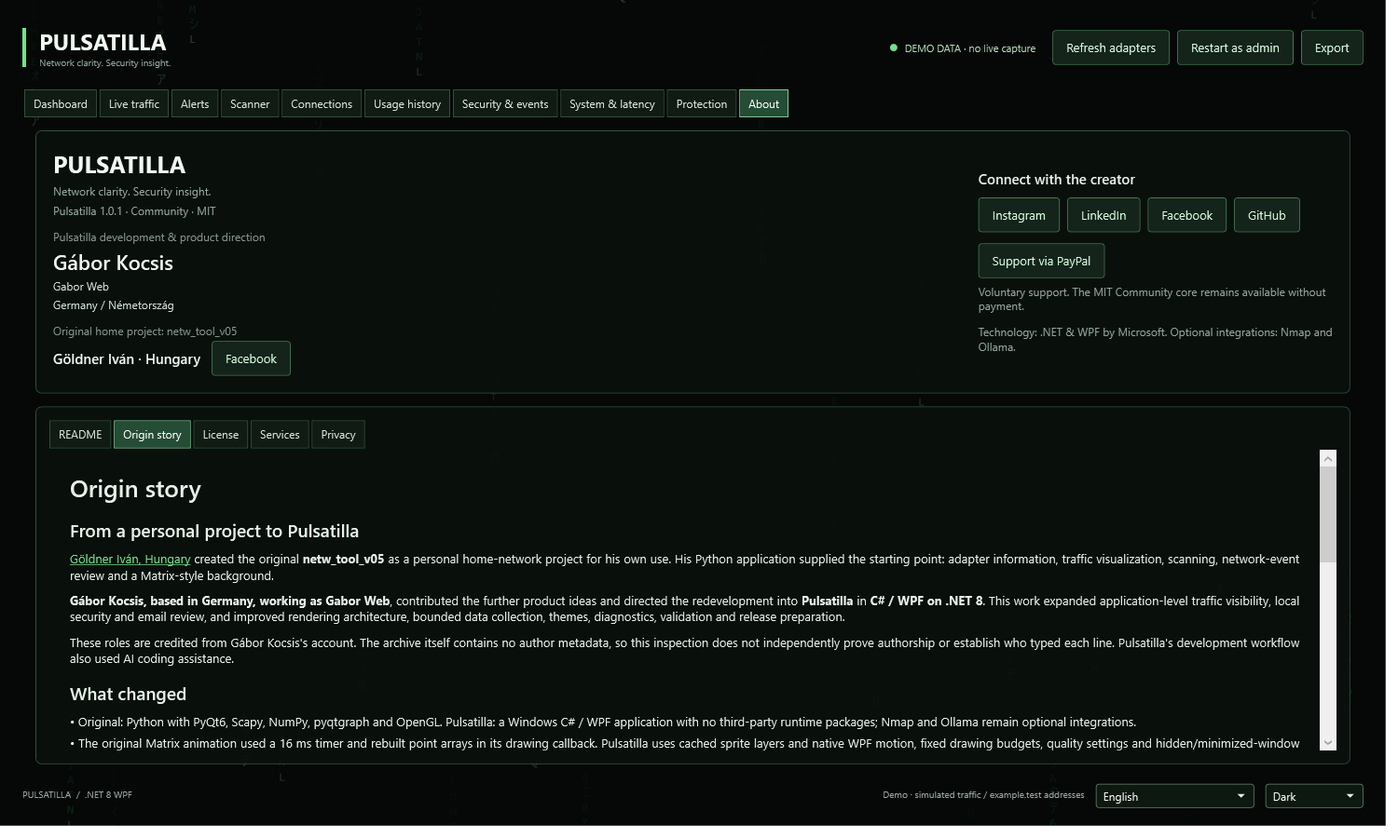
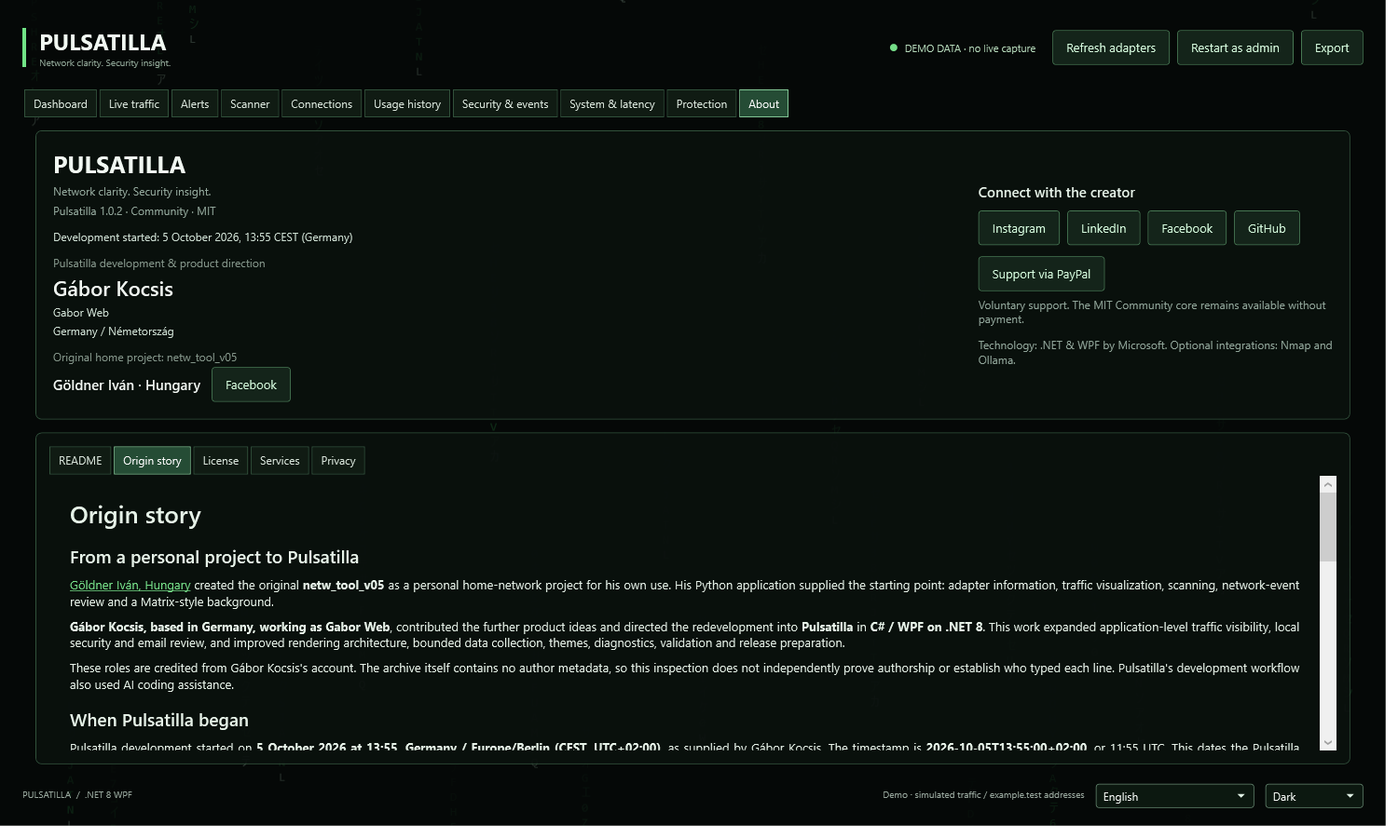
Record development start and refresh sharing materials (#5)

diff --git a/docs/launch/share.html b/docs/launch/share.html
@@ -11,23 +11,26 @@ a{color:var(--green);text-underline-offset:4px}nav{display:flex;gap:22px;flex-wr
 .hero{display:grid;grid-template-columns:.85fr 1.15fr;gap:32px;align-items:center}.hero img{width:100%;border-radius:14px;border:1px solid var(--line)}
 .eyebrow{color:var(--amber);font-size:12px;letter-spacing:.14em;font-weight:700}.intro,.note{color:var(--muted)}.note{font-size:13px}.steps{border-left:3px solid var(--green);padding-left:16px;margin:24px 0}
 .tabs{display:flex;gap:10px;margin:22px 0}.tabs button{background:transparent;color:var(--text);border:1px solid var(--line)}.tabs button.active{background:var(--green);color:#08100b}
-button,.secondary{border:0;border-radius:7px;padding:11px 17px;font:600 14px Segoe UI,Arial,sans-serif;cursor:pointer;display:inline-block;text-decoration:none}button{background:var(--green);color:#08100b}button:hover{filter:brightness(1.08)}button:focus-visible,a:focus-visible,textarea:focus-visible{outline:3px solid var(--amber);outline-offset:4px}
+button,.primary,.secondary{border:0;border-radius:7px;padding:11px 17px;font:600 14px Segoe UI,Arial,sans-serif;cursor:pointer;display:inline-block;text-decoration:none}button,.primary{background:var(--green);color:#08100b}button:hover,.primary:hover{filter:brightness(1.08)}button:focus-visible,a:focus-visible,textarea:focus-visible{outline:3px solid var(--amber);outline-offset:4px}
 .secondary{background:#1b2a23;color:var(--text);border:1px solid var(--line)}.copy-grid,.image-grid{display:grid;grid-template-columns:repeat(2,minmax(0,1fr));gap:22px}.copy-card,.image-card{background:var(--panel);border:1px solid var(--line);border-radius:12px;overflow:hidden}.copy-card{padding:22px}
 .copy-card[hidden]{display:none}.card-heading{display:flex;align-items:center;justify-content:space-between;gap:12px;margin-bottom:15px}.card-heading span{color:var(--violet);font-size:12px;font-weight:700}
 textarea{width:100%;height:330px;resize:vertical;border:1px solid #33493e;background:#090f0c;color:var(--text);border-radius:6px;padding:16px;font:14px/1.65 Segoe UI,Arial,sans-serif}.actions{display:flex;gap:10px;flex-wrap:wrap;margin-top:15px}
 figure{margin:0}.image-card img{width:100%;height:260px;object-fit:contain;background:#050907;display:block}.image-card figcaption{padding:18px}.image-card p{font-size:13px;color:var(--muted);margin:6px 0 12px}.image-card.brand img{object-fit:contain}
 .strip{display:flex;gap:24px;flex-wrap:wrap;padding:18px 0;margin:20px 0;border-top:1px solid var(--line);border-bottom:1px solid var(--line);font-size:14px}.strip b{color:var(--amber)}
+.service-grid{display:grid;grid-template-columns:repeat(3,minmax(0,1fr));gap:22px}.service-card{background:var(--panel);border:1px solid var(--line);border-radius:12px;padding:22px}.service-card p{color:var(--muted);font-size:14px}.service-card[hidden]{display:none}
 #status{position:fixed;bottom:20px;left:50%;transform:translateX(-50%);background:var(--green);color:#08100b;padding:12px 24px;border-radius:8px;box-shadow:0 6px 30px #0008;max-width:90%;text-align:center;z-index:5}#status:empty{display:none}
 footer{border-top:1px solid var(--line);margin-top:42px;padding-top:20px;color:var(--muted);font-size:13px}
-@media(max-width:760px){header{align-items:flex-start}.hero,.copy-grid,.image-grid{grid-template-columns:1fr}nav{gap:12px;font-size:13px}.hero img{order:-1}textarea{height:340px}.copy-card{padding:18px}.brand{font-size:18px}}
+@media(max-width:760px){header{align-items:flex-start;flex-wrap:wrap}.hero,.copy-grid,.image-grid,.service-grid{grid-template-columns:1fr}nav{gap:12px;font-size:13px}.hero img{order:-1}textarea{height:340px}.copy-card{padding:18px}.brand{font-size:18px}}
 @media print{body{background:white;color:black}.copy-card{break-inside:avoid}button,.tabs,nav,#status{display:none}textarea{height:500px;color:black;background:white}.hero{display:block}}
 </style></head><body><main>
-<header><div class="brand">PULSATILLA<small>NETWORK CLARITY. SECURITY INSIGHT.</small></div><nav><a href="#copy">Posts &amp; articles</a><a href="#images">Images</a><a href="https://github.com/acsokis/pulsatilla">GitHub</a></nav></header>
-<section class="hero"><div><p class="eyebrow">GABOR WEB · ENGLISH + DEUTSCH</p><h1>Make network activity visible.</h1><p class="intro">Your publication kit for Pulsatilla: copy-ready LinkedIn and Facebook posts, longer articles, real interface screenshots and brand artwork.</p><div class="steps">1. Choose a language and copy your text.<br>2. Download a PNG and attach it to your post.<br>3. Preview and publish in LinkedIn or Facebook.</div><p class="note">Open this file locally. Text copy and image downloads work without loading an external service. No social post is sent by this page.</p></div><img src="assets/marketing/pulsatilla-launch-en.png" alt="Pulsatilla brand banner: a violet flower and amber/violet network streams"></section>
+<header><div class="brand">PULSATILLA<small>NETWORK CLARITY. SECURITY INSIGHT.</small></div><nav><a href="#copy">Posts &amp; articles</a><a href="#services">Services</a><a href="#images">Images</a><a href="https://github.com/acsokis/pulsatilla">GitHub</a></nav></header>
+<section class="hero"><div><p class="eyebrow">GABOR WEB · ENGLISH + DEUTSCH · COMMUNITY 1.0.2</p><h1>Make network activity visible.</h1><p class="intro">Your publication kit for Pulsatilla: four LinkedIn/Facebook posts, two longer articles, ten PNG images and a reusable vector logo.</p><p class="note" data-language="en">Development started: <time datetime="2026-10-05T13:55:00+02:00">5 October 2026 at 13:55 CEST</time> · Germany / Europe/Berlin.</p><p class="note" data-language="de" hidden>Entwicklungsbeginn: <time datetime="2026-10-05T13:55:00+02:00">5. Oktober 2026 um 13:55 MESZ</time> · Deutschland / Europe/Berlin.</p><div class="actions"><a class="primary" href="https://github.com/acsokis/pulsatilla/releases/download/v1.0.2/pulsatilla-publication-kit-1.0.2.zip">Download complete kit (ZIP)</a><a class="secondary" href="https://github.com/acsokis/pulsatilla/releases/download/v1.0.2/pulsatilla-1.0.2-win-x64.zip">Download Windows app</a></div><p class="note"><a href="https://github.com/acsokis/pulsatilla/releases/tag/v1.0.2">1.0.2 early release and checksums</a> · App requires .NET 8 Windows Desktop Runtime x64.</p><div class="steps">1. Choose a language and copy your text.<br>2. Download a PNG and attach it to your post.<br>3. Preview and publish in LinkedIn or Facebook.</div><p class="note">Extract the publication ZIP and open share.html locally to keep every image and text link available. No social post is sent by this page.</p></div><img src="assets/marketing/pulsatilla-launch-en.png" alt="Pulsatilla brand banner: a violet flower and amber/violet network streams"></section>
 <div class="strip"><span><b>Community:</b> MIT core</span><span><b>Support:</b> voluntary PayPal</span><span><b>Services:</b> planned setup, diagnostics, training and integrations</span></div>
 <section id="copy"><h2>Copy a post or article</h2><p class="intro">Plain text, including project and PayPal links. The longer article can be used in either platform's article/post editor.</p><div class="tabs" aria-label="Publication language"><button type="button" class="active" data-language-tab="en" aria-pressed="true">English</button><button type="button" data-language-tab="de" aria-pressed="false">Deutsch</button></div><div class="copy-grid"><article class="copy-card" data-language="en">
     <div class="card-heading"><h3>LinkedIn post</h3><span>EN</span></div>
     <textarea id="linkedin-en" spellcheck="false" readonly aria-label="LinkedIn post">I’m introducing Pulsatilla, my open-source Windows network tool from Gabor Web.
+
+I started Pulsatilla on 5 October 2026 at 13:55 CEST, here in Germany.
 
 Network clarity. Security insight.
 
@@ -57,6 +60,8 @@ Interested in discussing a pilot? Message me here.
     <div class="card-heading"><h3>Facebook post</h3><span>EN</span></div>
     <textarea id="facebook-en" spellcheck="false" readonly aria-label="Facebook post">What is your Windows PC doing on the network?
 
+I started the Pulsatilla project on 5 October 2026 at 13:55 CEST in Germany.
+
 I built Pulsatilla to make that activity visible: a live download/upload graph, application traffic, network events and local email review in one desktop app.
 
 The dashboard reads counters from your selected network adapter. Run packet capture as Administrator for IPv4 traffic details and local app attribution. Paste or import an email to review suspicious wording and links locally; nothing reads your mailbox automatically. Blocking an application creates Windows Firewall rules only after confirmation.
@@ -80,6 +85,8 @@ The MIT core stays available without payment; support does not buy a service.
     <div class="card-heading"><h3>Long article · LinkedIn / Facebook</h3><span>EN</span></div>
     <textarea id="article-en" spellcheck="false" readonly aria-label="Long article · LinkedIn / Facebook">Pulsatilla: network visibility and an open-source service business
 
+I started the Pulsatilla project on 5 October 2026 at 13:55 CEST (Germany / Europe/Berlin).
+
 I’m developing Pulsatilla, a Windows desktop application for understanding network activity and reviewing local security indicators. My name is Gábor Kocsis, and I’m based in Germany under the Gabor Web name. Pulsatilla brings traffic charts, application activity, network diagnostics and local email review into one interface. The Community application is published as an early release with its source code on GitHub.
 
 The Dashboard starts with the selected network adapter. Windows byte counters supply the live download and upload rates, shown in amber and purple. You can inspect a timestamp, switch between one-, five- and fifteen-minute views, pause the visible timeline and review traffic volume. This view works without Administrator rights or packet capture, making it a useful starting point for understanding a connection.
@@ -99,6 +106,8 @@ You can explore the project at https://github.com/acsokis/pulsatilla. If you wan
 <article class="copy-card" data-language="de">
     <div class="card-heading"><h3>LinkedIn-Beitrag</h3><span>DE</span></div>
     <textarea id="linkedin-de" spellcheck="false" readonly aria-label="LinkedIn-Beitrag">Ich stelle Pulsatilla vor: mein Open-Source-Netzwerktool für Windows von Gabor Web.
+
+Ich habe Pulsatilla am 5. Oktober 2026 um 13:55 Uhr MESZ hier in Deutschland begonnen.
 
 Network clarity. Security insight.
 
@@ -128,6 +137,8 @@ Interesse an einem Gespräch? Schreib mir hier.
     <div class="card-heading"><h3>Facebook-Beitrag</h3><span>DE</span></div>
     <textarea id="facebook-de" spellcheck="false" readonly aria-label="Facebook-Beitrag">Was macht dein Windows-PC eigentlich im Netzwerk?
 
+Das Pulsatilla-Projekt habe ich am 5. Oktober 2026 um 13:55 Uhr MESZ in Deutschland begonnen.
+
 Ich habe Pulsatilla entwickelt, um das sichtbar zu machen: Live-Download und -Upload, Anwendungstraffic, Netzwerkereignisse und lokale E-Mail-Prüfung in einer Desktop-App.
 
 Das Dashboard liest die Zähler deines ausgewählten Netzwerkadapters. Die Paketerfassung mit Administratorrechten ergänzt IPv4-Traffic und die Zuordnung zu lokalen Anwendungen. Du kannst E-Mails einfügen oder importieren und verdächtige Formulierungen und Links lokal prüfen. Dein Postfach wird nicht automatisch gelesen. Anwendungssperren über die Windows-Firewall werden erst nach Bestätigung eingerichtet.
@@ -151,6 +162,8 @@ Der MIT-Kern bleibt ohne Zahlung verfügbar; Unterstützung ist kein Kauf einer 
     <div class="card-heading"><h3>Langer Artikel · LinkedIn / Facebook</h3><span>DE</span></div>
     <textarea id="article-de" spellcheck="false" readonly aria-label="Langer Artikel · LinkedIn / Facebook">Pulsatilla: Netzwerkaktivität verstehen und ein Open-Source-Geschäft aufbauen
 
+Das Pulsatilla-Projekt habe ich am 5. Oktober 2026 um 13:55 Uhr MESZ (Deutschland / Europe/Berlin) begonnen.
+
 Ich entwickle Pulsatilla, eine Windows-Desktop-Anwendung, mit der sich Netzwerkaktivität verstehen und lokale Sicherheitshinweise prüfen lassen. Mein Name ist Gábor Kocsis; ich lebe in Deutschland und arbeite unter dem Namen Gabor Web. Pulsatilla verbindet Verkehrsdiagramme, Programmaktivität, Netzwerkdiagnose und lokale E-Mail-Prüfung in einer Oberfläche. Die Community-Anwendung ist als frühe Version mit öffentlich zugänglichem Quellcode auf GitHub verfügbar.
 
 Das Dashboard beginnt beim ausgewählten Netzwerkadapter. Windows-Bytezähler liefern die aktuellen Download- und Upload-Raten, dargestellt in Bernstein und Violett. Zeitpunkte lassen sich untersuchen, Ansichten über eine, fünf oder fünfzehn Minuten auswählen und die sichtbare Zeitachse anhalten. Dazu kommen Angaben zum beobachteten Datenvolumen. Diese Ansicht benötigt weder Administratorrechte noch eine Paketerfassung und bietet einen einfachen Einstieg in die Analyse einer Verbindung.
@@ -167,6 +180,14 @@ Das Projekt steht unter https://github.com/acsokis/pulsatilla. Freiwillige Unter
     <div class="actions"><button type="button" data-copy="article-de">Text kopieren</button>
     <a class="secondary" href="article-de.md" download>Textdatei herunterladen</a></div>
   </article></div></section>
+<section id="services"><h2>Community, support &amp; service roadmap</h2><div class="service-grid">
+<article class="service-card" data-language="en"><h3>MIT core &amp; voluntary support</h3><p>The Community app remains available without payment, account or activation. PayPal support helps development and does not unlock features or buy a service.</p><a href="https://paypal.me/gaborcarter">Support via PayPal</a></article>
+<article class="service-card" data-language="en"><h3>Planned paid services</h3><p>Assisted setup, network diagnostics, training, support and custom integrations are the business direction. Discuss a scoped pilot with Gabor Web; prices, checkout and subscriptions are not active.</p><a href="https://www.linkedin.com/in/gabor-web/">Discuss a pilot on LinkedIn</a></article>
+<article class="service-card" data-language="en"><h3>Later possibilities</h3><p>Managed reports and opt-in provider-backed exposure monitoring are future directions. Current exposure review uses locally imported reports; no external breach service or VPN is implemented.</p><a href="commercial-overview.md">Read the commercial overview</a></article>
+<article class="service-card" data-language="de" hidden><h3>MIT-Kern &amp; freiwillige Unterstützung</h3><p>Die Community-App bleibt ohne Zahlung, Konto oder Aktivierung verfügbar. PayPal-Unterstützung hilft der Entwicklung; sie schaltet keine Funktionen frei und kauft keine Leistung.</p><a href="https://paypal.me/gaborcarter">Über PayPal unterstützen</a></article>
+<article class="service-card" data-language="de" hidden><h3>Geplante kostenpflichtige Leistungen</h3><p>Einrichtung, Netzwerkdiagnose, Schulung, Support und individuelle Integrationen bilden die Geschäftsidee. Ein klar abgegrenztes Pilotprojekt lässt sich mit Gabor Web besprechen; Preise, Checkout und Abonnements sind noch nicht aktiv.</p><a href="https://www.linkedin.com/in/gabor-web/">Pilotprojekt auf LinkedIn besprechen</a></article>
+<article class="service-card" data-language="de" hidden><h3>Spätere Möglichkeiten</h3><p>Verwaltete Berichte und freiwillige Datenleck-Prüfung über einen externen Anbieter sind spätere Entwicklungsrichtungen. Aktuell werden importierte Berichte lokal geprüft; ein externer Datenleck-Dienst oder VPN ist nicht implementiert.</p><a href="commercial-overview.md">Geschäftliche Übersicht lesen</a></article>
+</div></section>
 <section id="images"><h2>Attach an image</h2><p class="intro">Use a Dashboard screenshot to show how the application works. Use the brand banner or service-roadmap artwork when introducing Pulsatilla and future service opportunities.</p><p class="note">Screenshots show synthetic demo data. The three flower/network banners are AI-generated illustrations. Service artwork describes a roadmap; no paid subscription or external breach service is active.</p><div class="image-grid"><figure class="image-card brand">
   <a href="assets/marketing/pulsatilla-launch-en.png" target="_blank" rel="noopener"><img src="assets/marketing/pulsatilla-launch-en.png" alt="Pulsatilla brand banner — AI-generated brand illustration · 1672 × 941" loading="lazy"></a>
   <figcaption><strong>Pulsatilla brand banner</strong><p>AI-generated brand illustration · 1672 × 941</p><a href="assets/marketing/pulsatilla-launch-en.png" download>Download PNG</a></figcaption>
@@ -207,7 +228,7 @@ Das Projekt steht unter https://github.com/acsokis/pulsatilla. Freiwillige Unter
   <a href="assets/screenshots/dashboard-light-en.png" target="_blank" rel="noopener"><img src="assets/screenshots/dashboard-light-en.png" alt="Dashboard · Light theme — Actual WPF interface · synthetic demo data · 1500 × 900" loading="lazy"></a>
   <figcaption><strong>Dashboard · Light theme</strong><p>Actual WPF interface · synthetic demo data · 1500 × 900</p><a href="assets/screenshots/dashboard-light-en.png" download>Download PNG</a></figcaption>
 </figure></div><p><a href="assets/marketing/pulsatilla-logo.svg" download>Download vector logo (SVG)</a> · <a href="seo-geo.md">SEO / GEO copy and image captions</a></p></section>
-<footer>Prepared 2026-10-05 · Gábor Kocsis / Gabor Web · <a href="https://www.linkedin.com/in/gabor-web/">Contact on LinkedIn</a> · <a href="https://paypal.me/gaborcarter">Support via PayPal</a><br>Copy-ready files: <a href="README.md">publication index</a> · <a href="COPY-NOTES.md">captions and copy notes</a></footer>
+<footer>Updated 2026-10-05 · Gábor Kocsis / Gabor Web · <a href="https://www.linkedin.com/in/gabor-web/">Contact on LinkedIn</a> · <a href="https://paypal.me/gaborcarter">Support via PayPal</a><br><a href="https://github.com/acsokis/pulsatilla/releases/download/v1.0.2/pulsatilla-publication-kit-1.0.2.zip">Complete publication ZIP · 1.0.2</a> · <a href="README.md">publication index</a> · <a href="COPY-NOTES.md">captions and copy notes</a></footer>
 </main><div id="status" role="status" aria-live="polite"></div><script>
 const status = document.getElementById('status');
 let statusTimeout;

diff --git a/Pulsatilla.Wpf/MainWindow.xaml b/Pulsatilla.Wpf/MainWindow.xaml
@@ -579,6 +579,7 @@
                                 <TextBlock Text="PULSATILLA" Foreground="{DynamicResource Theme_F1F8F2}" FontSize="25" FontWeight="Bold" />
                                 <TextBlock x:Name="ProductTaglineText" Text="Network clarity. Security insight." Foreground="{DynamicResource Theme_91A69A}" Margin="0,5,0,0" />
                                 <TextBlock x:Name="AboutVersionText" Foreground="{DynamicResource Theme_91A69A}" Margin="0,5,0,12" />
+                                <TextBlock x:Name="DevelopmentStartedText" Text="{x:Static local:ProductInfo.DevelopmentStartedDisplay}" Foreground="{DynamicResource Theme_CEDFD3}" Margin="0,0,0,12" TextWrapping="Wrap" />
                                 <TextBlock Text="Pulsatilla development &amp; product direction" Foreground="{DynamicResource Theme_829488}" />
                                 <TextBlock x:Name="CreatorNameText" Foreground="{DynamicResource Theme_F0F5F1}" FontSize="22" FontWeight="SemiBold" Margin="0,4,0,4" />
                                 <TextBlock Text="{x:Static local:ProductInfo.Company}" Foreground="{DynamicResource Theme_CEDFD3}" Margin="0,0,0,4" />

diff --git a/tools/Protection.Checks/ExtendedChecks.cs b/tools/Protection.Checks/ExtendedChecks.cs
@@ -90,7 +90,8 @@ internal static class ExtendedChecks
         ((FlowDocumentScrollViewer)window.FindName("PrivacyViewer")).Document = AboutContent.CreateDocument(AboutContent.Privacy);
         var originDocument = AboutContent.CreateDocument(AboutContent.Origin);
         var originText = new TextRange(originDocument.ContentStart, originDocument.ContentEnd).Text;
-        Assert(originText.Contains("Göldner Iván") && originText.Contains("Gábor Kocsis") && originText.Contains("2025-11-26"), "Origin attribution or archive dates missing from embedded document");
+        Assert(originText.Contains("Göldner Iván") && originText.Contains("Gábor Kocsis") && originText.Contains("2025-11-26") && originText.Contains("2026-10-05T13:55:00+02:00"), "Origin attribution, archive dates or reported Pulsatilla start missing from embedded document");
+        Assert(((TextBlock)window.FindName("DevelopmentStartedText")).Text == ProductInfo.DevelopmentStartedDisplay, "About start timestamp is missing");
         Assert(originDocument.Blocks.OfType<Paragraph>().SelectMany(paragraph => paragraph.Inlines.OfType<Hyperlink>())
             .Any(link => link.NavigateUri.AbsoluteUri == AboutContent.OriginalCreatorFacebook), "Original creator link is not clickable in Origin story");
         Assert(((TextBlock)window.FindName("OriginCreatorText")).Text.Contains("Göldner Iván"), "Original creator missing from About header");

diff --git a/tools/Marketing.Screenshots/Program.cs b/tools/Marketing.Screenshots/Program.cs
@@ -97,7 +97,7 @@ internal static class Program
         Text("EmailResultText", result.Summary + "\n\n" + string.Join("\n\n", result.Findings.Select(finding => "• " + finding)));
         var creator = AboutContent.Creator;
         Text("CreatorNameText", creator.Name); Text("CreatorLocationText", creator.Location);
-        Text("AboutVersionText", "Pulsatilla " + (typeof(ProductInfo).Assembly.GetName().Version?.ToString(3) ?? "1.0.1") + " · Community · MIT");
+        Text("AboutVersionText", "Pulsatilla " + (typeof(ProductInfo).Assembly.GetName().Version?.ToString(3) ?? "1.0.2") + " · Community · MIT");
         Find<FlowDocumentScrollViewer>("ReadmeViewer").Document = AboutContent.CreateReadmeDocument();
         Find<FlowDocumentScrollViewer>("LicenseViewer").Document = AboutContent.CreateDocument("# MIT License\n\n" + AboutContent.LicenseText);
         Find<FlowDocumentScrollViewer>("ServicesViewer").Document = AboutContent.CreateDocument(AboutContent.Services);

diff --git a/Pulsatilla.Wpf/ProductInfo.cs b/Pulsatilla.Wpf/ProductInfo.cs
@@ -9,4 +9,6 @@ public static class ProductInfo
     public const string Edition = "Community";
     public const string License = "MIT";
     public const string SupportUrl = "https://paypal.me/gaborcarter";
+    public const string DevelopmentStartedAt = "2026-10-05T13:55:00+02:00";
+    public const string DevelopmentStartedDisplay = "Development started: 5 October 2026, 13:55 CEST (Germany)";
 }

diff --git a/docs/ORIGIN.md b/docs/ORIGIN.md
@@ -8,6 +8,10 @@
 
 These roles are credited from Gábor Kocsis's account. The archive itself contains no author metadata, so this inspection does not independently prove authorship or establish who typed each line. Pulsatilla's development workflow also used AI coding assistance.
 
+## When Pulsatilla began
+
+Pulsatilla development started on **5 October 2026 at 13:55, Germany / Europe/Berlin (CEST, UTC+02:00)**, as supplied by Gábor Kocsis. The timestamp is **2026-10-05T13:55:00+02:00**, or 11:55 UTC. This dates the Pulsatilla project; the original personal Python project has its separate November 2025 archive dates.
+
 ## What changed
 
 - Original: Python with PyQt6, Scapy, NumPy, pyqtgraph and OpenGL. Pulsatilla: a Windows C# / WPF application with no third-party runtime packages; Nmap and Ollama remain optional integrations.
@@ -20,13 +24,14 @@ These roles are credited from Gábor Kocsis's account. The archive itself contai
 
 - Original Python file timestamps in the supplied ZIP: **2025-11-26 to 2025-11-28**. They support a late-November 2025 snapshot, not a verified project start date.
 - Earliest to latest source-file timestamp: **28 hours, 11 minutes**. This is a span between saved files, not hours worked.
-- Pulsatilla's first public Git import: **2026-10-05**. This repository has no earlier development history, so the date of the C#/WPF port's beginning cannot be established from it.
+- Pulsatilla's reported development start: **2026-10-05 13:55 CEST**.
+- First public Git import: **2026-10-05 19:35:05 CEST**, approximately **5 hours, 40 minutes** after the reported start. Git records publication, while the start time was supplied by Gábor Kocsis.
 
 ZIP timestamps have no reliable original timezone and can be changed when files are copied or archived. Neither timestamps nor source size reveal actual engineering time.
 
-## Effort estimates
+## Elapsed time and reconstruction estimates
 
-Actual working hours were not recorded in the supplied archive or public repository. A separate technical review describes reconstruction estimates and their assumptions; those estimates are not either contributor's timesheet.
+The reported start-to-first-import interval is **5 hours, 40 minutes, 5 seconds** of elapsed time. Active working hours were not separately logged. The following estimates describe hypothetical manual reconstruction of the inspected scope, rather than the actual AI-assisted Pulsatilla timeline or either contributor's timesheet.
 
 - Recreating the original Python prototype: approximately **20–80 engineering hours**.
 - Redeveloping the C#/WPF application with the inspected additions, validation and packaging: approximately **60–200 engineering hours**.

diff --git a/docs/launch/RELEASE-NOTES.md b/docs/launch/RELEASE-NOTES.md
@@ -1,8 +1,10 @@
-# Pulsatilla Community 1.0.1
+# Pulsatilla Community 1.0.2
 
 **Network clarity. Security insight.**
 
 An early Windows x64 release by **Gábor Kocsis / Gabor Web**, under the MIT license.
+Development started on **5 October 2026 at 13:55 CEST (Germany / Europe/Berlin)**,
+as supplied by Gábor Kocsis.
 
 - Amber download / purple upload adapter timeline and local application traffic views.
 - Security review indicators and expandable IP/software source details.
@@ -14,7 +16,7 @@ An early Windows x64 release by **Gábor Kocsis / Gabor Web**, under the MIT lic
 
 ## Run
 
-Download `pulsatilla-1.0.1-win-x64.zip`, verify it using the supplied SHA-256 checksums,
+Download `pulsatilla-1.0.2-win-x64.zip`, verify it using the supplied SHA-256 checksums,
 extract it and run `Pulsatilla.exe`. Install **.NET 8 Windows Desktop Runtime x64** first.
 The EXE is unsigned. Packet capture and confirmed firewall changes require Administrator
 rights; the adapter Dashboard does not.
@@ -31,8 +33,10 @@ See the [README](https://github.com/acsokis/pulsatilla#readme),
 [privacy notes](https://github.com/acsokis/pulsatilla/blob/main/docs/PRIVACY.md) and
 [English/German publication kit](https://github.com/acsokis/pulsatilla/tree/main/docs/launch).
 
-For sharing, extract `pulsatilla-publication-kit-1.0.1.zip` and open `share.html` in a browser.
+For sharing, extract `pulsatilla-publication-kit-1.0.2.zip` and open `share.html` in a browser.
 Copy a post/article, download a PNG and attach it in LinkedIn or Facebook.
+This release records the development start in About and the marketing copy, and adds
+direct app/kit downloads plus an English/German overview of voluntary support and planned services.
 
 Validation: Release build completed with zero warnings/errors, synthetic protection,
 presentation and localization checks passed. No live firewall changes or provider requests

diff --git a/docs/launch/seo-geo.md b/docs/launch/seo-geo.md
@@ -5,6 +5,9 @@ examples for a future product page; this file does not create or host a website.
 The public repository is `https://github.com/acsokis/pulsatilla`, verified on 2026-10-05.
 No product domain, office address or service price is assumed.
 
+Project development start, supplied by Gábor Kocsis: **2026-10-05 at 13:55 CEST**,
+Germany / Europe/Berlin; ISO **2026-10-05T13:55:00+02:00**.
+
 Voluntary development support is available via the creator-provided public link
 [PayPal.Me / gaborcarter](https://paypal.me/gaborcarter). It does not unlock features or buy
 a paid service; the app does not handle payment information. Optional paid services remain planned.
@@ -59,6 +62,7 @@ aktive Abonnements oder externe Dienste zur Datenleck-Prüfung gibt es in dieser
 | Company name | Gabor Web |
 | Creator | Gábor Kocsis |
 | Creator location | Germany; no city or physical business address has been provided |
+| Development start | 5 October 2026, 13:55 CEST / Europe/Berlin, supplied by Gábor Kocsis |
 | Platform | Windows 10/11 x64, C#/WPF on .NET 8 |
 | Current framework-dependent download | Requires .NET 8 Desktop Runtime |
 | License | MIT; commercial use and redistribution are permitted with the required notice |
@@ -190,6 +194,7 @@ actual product-page URL if one is later published; no unprovided domain is used 
       "@type": "SoftwareApplication",
       "@id": "#pulsatilla",
       "name": "Pulsatilla",
+      "dateCreated": "2026-10-05T13:55:00+02:00",
       "description": "MIT-licensed Windows network monitoring with live traffic, local application activity and explicitly imported email and exposure-report review. Separate paid services are planned; no external exposure provider is active.",
       "url": "https://github.com/acsokis/pulsatilla",
       "applicationCategory": "UtilitiesApplication",

diff --git a/docs/ORIGIN-REVIEW.md b/docs/ORIGIN-REVIEW.md
@@ -61,12 +61,17 @@ metadata and does not date the original source.
 
 ## Pulsatilla publication history
 
+- Development start supplied by Gábor Kocsis: **2026-10-05 13:55:00 +02:00**, Germany / Europe/Berlin, CEST; **11:55 UTC**. This is contributor-supplied history rather than a timestamp recovered from Git.
 - First import: [`ad71d0b`](https://github.com/acsokis/pulsatilla/commit/ad71d0b6d6e273cbcec29b0b20676d35ce8969a1), **2026-10-05 19:35:05 +02:00**.
 - Follow-up funding/publication-kit commit: [`240cdab`](https://github.com/acsokis/pulsatilla/commit/240cdaba985926195ff5bd6c792c12dcc69188dc), **2026-10-05 19:49:38 +02:00**.
 
 The first commit imported an already developed application. The 14-minute gap between
 these commits does not measure the development or porting time. No earlier development
 history is present in this repository.
+
+From the supplied 13:55 start to the first public import at 19:35:05, the elapsed interval
+is **5 hours, 40 minutes, 5 seconds**. It dates the Pulsatilla phase, not the original Python
+project. The interval includes any pauses and is not a logged total of active work.
 
 ## Functional and architectural comparison
 
@@ -94,7 +99,9 @@ it cannot quantify faster rendering, overall reliability or effectiveness agains
 
 ## Reconstruction-effort estimates
 
-Actual historical hours cannot be recovered. For planning only, a broad engineering judgment is:
+The Pulsatilla start is now supplied by its developer, with **5:40:05 elapsed to the first
+public Git import**. Active working hours are not logged. For planning only, a broad
+estimate of hypothetical manual reconstruction is:
 
 - Original Python prototype: **20–80 engineering hours**.
 - C#/WPF redevelopment with the inspected new features, validation and packaging:

diff --git a/docs/launch/README.md b/docs/launch/README.md
@@ -1,9 +1,11 @@
 # Pulsatilla publication kit
 
 English and German launch materials by Gabor Web / Gábor Kocsis, prepared on 2026-10-05.
+Pulsatilla development started on **2026-10-05 at 13:55 CEST (Germany / Europe/Berlin)**,
+as supplied by Gábor Kocsis.
 The source project is public at [acsokis/pulsatilla](https://github.com/acsokis/pulsatilla).
 Download the Community application from [GitHub Releases](https://github.com/acsokis/pulsatilla/releases).
-Get the complete [share-ready publication ZIP](https://github.com/acsokis/pulsatilla/releases/download/v1.0.1/pulsatilla-publication-kit-1.0.1.zip),
+Get the complete [share-ready publication ZIP](https://github.com/acsokis/pulsatilla/releases/download/v1.0.2/pulsatilla-publication-kit-1.0.2.zip),
 extract it and open `share.html` for the copy buttons and image downloads.
 
 ## Ready-to-copy posts
@@ -11,6 +13,8 @@ extract it and open `share.html` for the copy buttons and image downloads.
 Open **[share.html](share.html)** locally for a visual publication page with one-click
 copy buttons, English/German posts and articles, and downloadable images. On GitHub,
 HTML is displayed as source; download the repository ZIP and open the file in a browser.
+The page includes direct application/kit download links and English/German sections for
+voluntary support and planned service opportunities.
 
 | Platform | English | Deutsch |
 | --- | --- | --- |

diff --git a/README.md b/README.md
@@ -8,6 +8,8 @@
 
 Network monitoring, security awareness and local exposure review in one Windows desktop app.
 Pulsatilla's C#/WPF application is developed by **Gábor Kocsis / Gabor Web**, based in Germany.
+Development started on **5 October 2026 at 13:55 CEST (Germany / Europe/Berlin)**,
+as supplied by Gábor Kocsis.
 The [origin story](docs/ORIGIN.md) records the personal-project starting point and contributor roles.
 The Community application's current license is [MIT](LICENSE).
 Optional paid services are a separate [integration roadmap](docs/MONETIZATION.md), not active subscriptions.
@@ -50,7 +52,7 @@ To share the project, open [the copy-and-paste publication page](docs/launch/sha
 locally after downloading the repository. It includes English/German LinkedIn and Facebook
 posts, longer articles, copy buttons and downloadable images. On GitHub, use the
 [plain-text post files](docs/launch/README.md#ready-to-copy-posts).
-The complete [publication ZIP](https://github.com/acsokis/pulsatilla/releases/download/v1.0.1/pulsatilla-publication-kit-1.0.1.zip)
+The complete [publication ZIP](https://github.com/acsokis/pulsatilla/releases/download/v1.0.2/pulsatilla-publication-kit-1.0.2.zip)
 contains all texts and images with the local copy page.
 
 ## Features

diff --git a/docs/launch/article-de.md b/docs/launch/article-de.md
@@ -1,5 +1,7 @@
 # Pulsatilla: Netzwerkaktivität verstehen und ein Open-Source-Geschäft aufbauen
 
+Das Pulsatilla-Projekt habe ich am 5. Oktober 2026 um 13:55 Uhr MESZ (Deutschland / Europe/Berlin) begonnen.
+
 Ich entwickle Pulsatilla, eine Windows-Desktop-Anwendung, mit der sich Netzwerkaktivität verstehen und lokale Sicherheitshinweise prüfen lassen. Mein Name ist Gábor Kocsis; ich lebe in Deutschland und arbeite unter dem Namen Gabor Web. Pulsatilla verbindet Verkehrsdiagramme, Programmaktivität, Netzwerkdiagnose und lokale E-Mail-Prüfung in einer Oberfläche. Die Community-Anwendung ist als frühe Version mit öffentlich zugänglichem Quellcode auf GitHub verfügbar.
 
 Das Dashboard beginnt beim ausgewählten Netzwerkadapter. Windows-Bytezähler liefern die aktuellen Download- und Upload-Raten, dargestellt in Bernstein und Violett. Zeitpunkte lassen sich untersuchen, Ansichten über eine, fünf oder fünfzehn Minuten auswählen und die sichtbare Zeitachse anhalten. Dazu kommen Angaben zum beobachteten Datenvolumen. Diese Ansicht benötigt weder Administratorrechte noch eine Paketerfassung und bietet einen einfachen Einstieg in die Analyse einer Verbindung.
